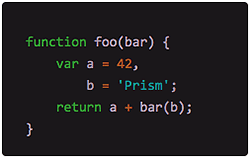
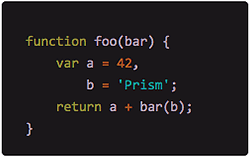
a different value for green

diff --git a/themes/prism-base16-atelierheath.dark.css b/themes/prism-base16-atelierheath.dark.css
@@ -106,7 +106,7 @@ pre[class*="language-"] {
 .token.control,
 .token.directive,
 .token.unit {
-  color: #379a37;
+  color: #918b3b;
 }
 
 .token.statement,
